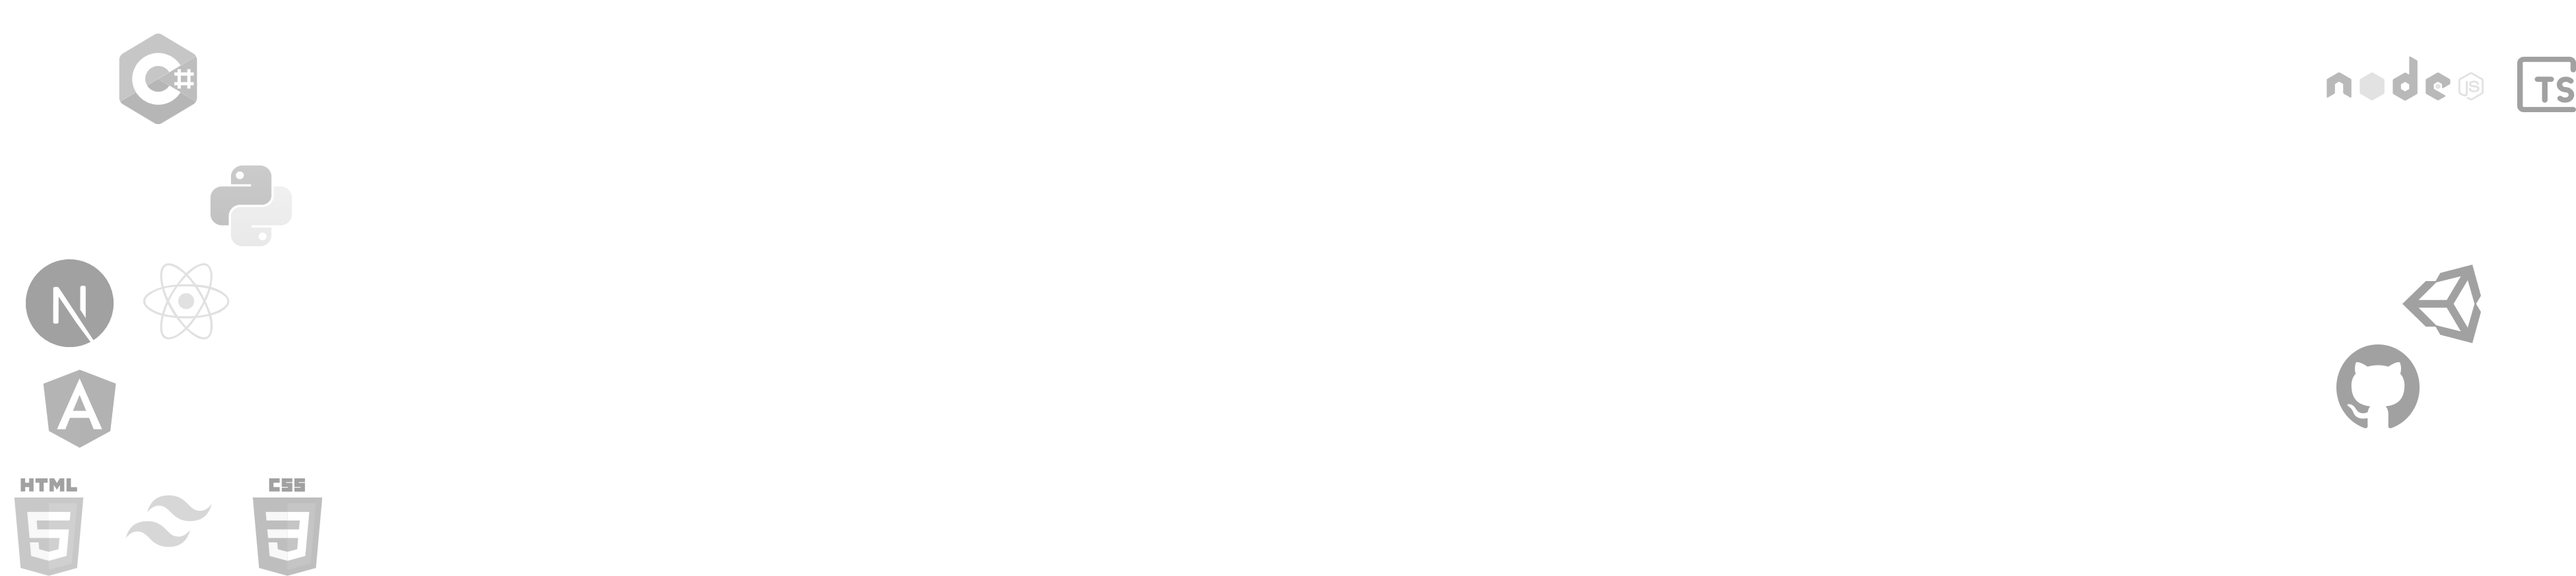
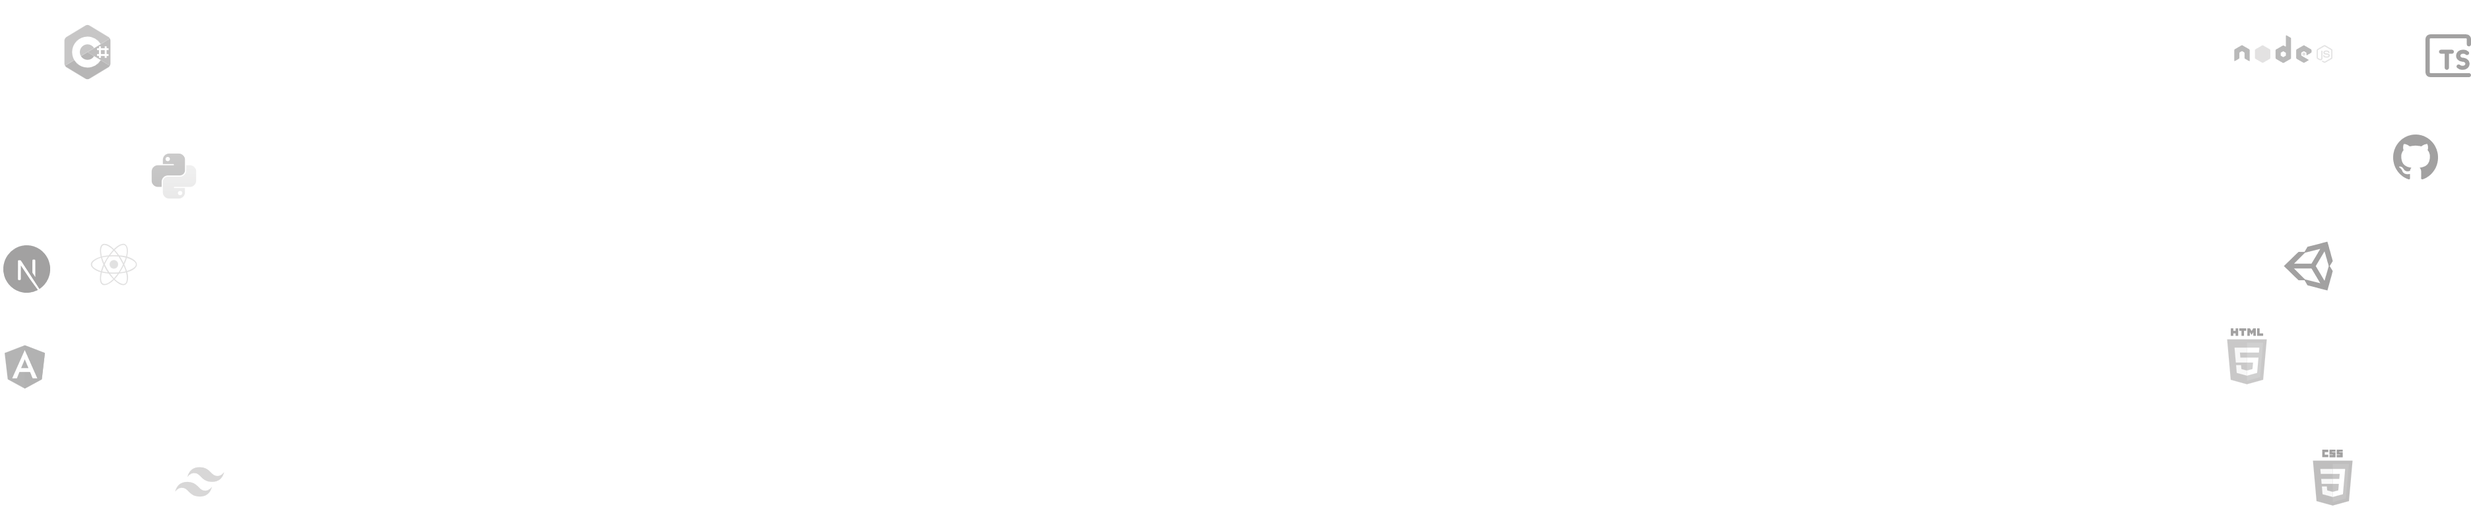
checkpoint hero section

diff --git a/src/components/Hero/Hero.tsx b/src/components/Hero/Hero.tsx
@@ -17,10 +17,7 @@ export default function Hero() {
   };
 
   return (
-    <div
-      onMouseMove={handleMouseMove}
-      className="relative h-full flex justify-center "
-    >
+    <div className="relative h-full flex justify-center ">
       <div className={styles.bgGrid} />
 
       {/* <div
@@ -31,6 +28,7 @@ export default function Hero() {
       <div className="flex flex-col gap-8 items-center w-full  whitespace-nowrap h-fit ">
         <div className={styles.meContainer}>
           <Image
+            onMouseMove={handleMouseMove}
             className={styles.bg}
             alt=""
             src={bg}

diff --git a/src/components/Hero/Hero.module.css b/src/components/Hero/Hero.module.css
@@ -119,8 +119,8 @@
 .electronic2 {
   background: url("./electronic.svg");
   background-size: contain;
-  opacity: 0.2;
   z-index: -1;
+  mask-image: radial-gradient(circle, #00000000 20%, #000);
 }
 
 .bg {
@@ -130,6 +130,8 @@
   width: 400%;
   max-width: none;
   mask-repeat: no-repeat;
+  aspect-ratio: 3744/772;
+  z-index: 2;
 }
 
 @keyframes expand {
